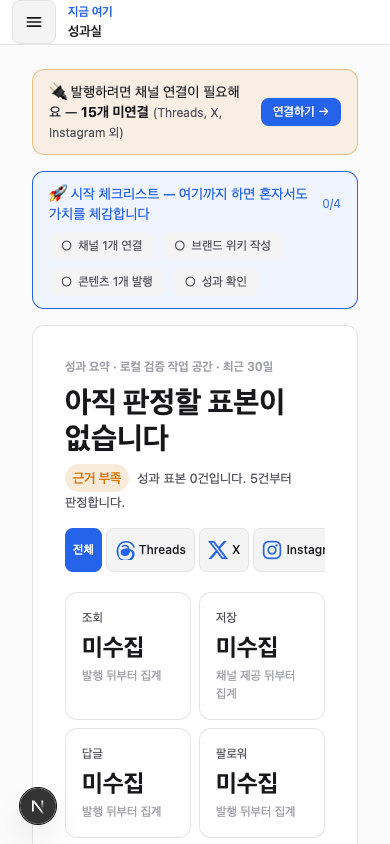
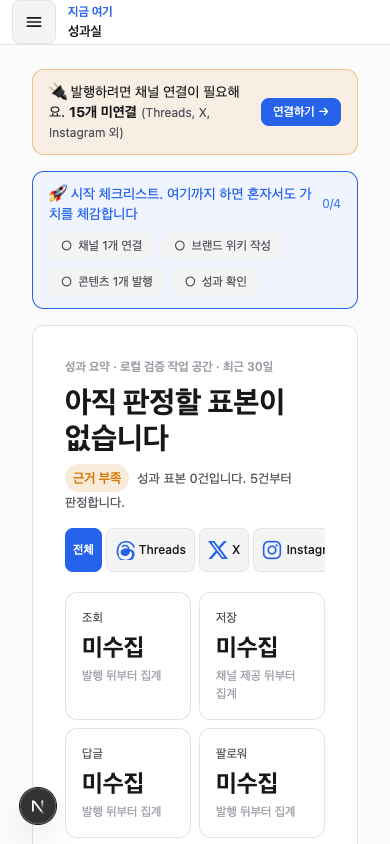
화면: 좁은 화면 셸을 서랍으로 가르고 UI 문구에서 긴 대시를 걷어냄
390 에서 네 방 레일이 화면 전체를 차지해 본문이 밀려났다. 700px 아래에서는
서랍으로 바꾸고 닫힌 상태에도 현재 방 이름과 지금 여기를 남긴다. 768 이상은
기존 레일 그대로다.

UI 문구에서 긴 대시를 23개 파일에서 걷어내고 마침표로 끊었다. 회장 상시 규칙이다.
발행 단추의 영문 표기도 우리말로 바꿨다. 갈래 제목의 이모지를 뺐다.

관찰: 네 화면을 390, 768, 1024, 1440 에서 재고 16개 조합 전부 가로 넘침 없음,
네 방 링크 4개 유지, 콘솔 오류 0. 생성 201, 후보 3장, 미리보기 7개.
전체 시험 149파일 1,206건 통과.

Claude-Session: https://claude.ai/code/session_01T6btu3FRv958LULrrsxSdK

Changed region(s): [[0.4308, 0.2156, 0.8, 0.2464], [0.1846, 0.1232, 0.5538, 0.154], [0.1231, 0.2464, 0.4, 0.2773]]

diff --git a/dashboard/src/app/blog/page.tsx b/dashboard/src/app/blog/page.tsx
@@ -159,12 +159,12 @@ export default function BlogPage() {
           <details className="card p-4 mb-6">
             <summary className="text-sm font-medium text-muted cursor-pointer">SEO 콘텐츠 자동화 플로우</summary>
             <div className="mt-3 text-caption text-subtle space-y-2">
-              <div className="flex items-start gap-2"><span className="text-accent font-bold">1.</span><div><strong className="text-muted">키워드 수집</strong> — Keyword Planner에서 검색량 높은 키워드를 찾아 Blog Keywords에 추가</div></div>
-              <div className="flex items-start gap-2"><span className="text-accent font-bold">2.</span><div><strong className="text-muted">트렌드 확인</strong> — Naver Trends에서 시즌 키워드 파악 (시험, 방학 등)</div></div>
-              <div className="flex items-start gap-2"><span className="text-accent font-bold">3.</span><div><strong className="text-muted">콘텐츠 생산</strong> — AI가 Blog Keywords + Content Guide 기반으로 칼럼 draft 자동 생성</div></div>
-              <div className="flex items-start gap-2"><span className="text-accent font-bold">4.</span><div><strong className="text-muted">검수 + 발행</strong> — Queue에서 draft 확인 → 클릭하여 수정 → Approve → 블로그에 자동 발행</div></div>
-              <div className="flex items-start gap-2"><span className="text-accent font-bold">5.</span><div><strong className="text-muted">검색 노출</strong> — Search Console에서 색인 요청 → 검색 노출</div></div>
-              <div className="flex items-start gap-2"><span className="text-accent font-bold">6.</span><div><strong className="text-muted">결과 분석</strong> — Blog Performance에서 조회수 + 검색 클릭 추적</div></div>
+              <div className="flex items-start gap-2"><span className="text-accent font-bold">1.</span><div><strong className="text-muted">키워드 수집</strong>. Keyword Planner에서 검색량 높은 키워드를 찾아 Blog Keywords에 추가</div></div>
+              <div className="flex items-start gap-2"><span className="text-accent font-bold">2.</span><div><strong className="text-muted">트렌드 확인</strong>. Naver Trends에서 시즌 키워드 파악 (시험, 방학 등)</div></div>
+              <div className="flex items-start gap-2"><span className="text-accent font-bold">3.</span><div><strong className="text-muted">콘텐츠 생산</strong>. AI가 Blog Keywords + Content Guide 기반으로 칼럼 draft 자동 생성</div></div>
+              <div className="flex items-start gap-2"><span className="text-accent font-bold">4.</span><div><strong className="text-muted">검수 + 발행</strong>. Queue에서 draft 확인 → 클릭하여 수정 → Approve → 블로그에 자동 발행</div></div>
+              <div className="flex items-start gap-2"><span className="text-accent font-bold">5.</span><div><strong className="text-muted">검색 노출</strong>. Search Console에서 색인 요청 → 검색 노출</div></div>
+              <div className="flex items-start gap-2"><span className="text-accent font-bold">6.</span><div><strong className="text-muted">결과 분석</strong>. Blog Performance에서 조회수 + 검색 클릭 추적</div></div>
               <p className="text-caption text-subtle mt-2 border-t border-border pt-2">Settings 탭에서 Content Guide와 Keywords를 수정하세요.</p>
             </div>
           </details>
@@ -309,7 +309,7 @@ export default function BlogPage() {
             </div>
             {bank.length > 0 && (
               <div className="mb-3 p-3 rounded bg-accent-soft border border-accent">
-                <p className="text-caption text-accent mb-2">Keyword Bank ({bank.length}개) — 클릭하여 추가</p>
+                <p className="text-caption text-accent mb-2">Keyword Bank ({bank.length}개). 클릭하여 추가</p>
                 <div className="flex flex-wrap gap-1">
                   {bank.map((k) => (
                     <button

diff --git a/dashboard/src/components/channel/SocialConnectButton.tsx b/dashboard/src/components/channel/SocialConnectButton.tsx
@@ -90,7 +90,7 @@ export function SocialConnectButton({ provider, label, onConnected }: { provider
   const publishReady = ([...SCHEDULABLE_PLATFORMS, ...VIDEO_PUBLISH_PLATFORMS] as readonly string[]).includes(provider);
   const accountSwitchHelp = ACCOUNT_SWITCH_HELP[provider];
   const resolvedRef = useRef(false); // postMessage로 이미 결과를 받았는지(closed-폴링 오탐 방지)
-  const watchClosedRef = useRef<number | null>(null); // closed-폴링 interval id — unmount 시 정리
+  const watchClosedRef = useRef<number | null>(null); // closed-폴링 interval id. unmount 시 정리
   const mountedRef = useRef(true); // connect fetch가 pending인 동안 unmount되는 레이스 가드
 
   // 컴포넌트 unmount 시 진행 중인 closed-폴링 interval을 정리한다 — 안 하면 팝업을 열어둔 채
@@ -119,7 +119,7 @@ export function SocialConnectButton({ provider, label, onConnected }: { provider
       resolvedRef.current = true;
       setBusy(false);
       if (data.ok) {
-        setMsg(`${label} 연결 완료 — 채널 상태를 새로고침합니다.`);
+        setMsg(`${label} 연결 완료. 채널 상태를 새로고침합니다.`);
         onConnected?.();
       } else {
         setMsg(oauthErrorMessage(data.message || "연결 실패", label));
@@ -233,7 +233,7 @@ export function SocialConnectButton({ provider, label, onConnected }: { provider
         watchClosedRef.current = watchClosed;
         return; // busy는 postMessage/closed 감지가 최종 해제
       } else {
-        popup.close(); // authUrl 없음 — 예약해둔 빈 창을 남겨두지 않는다.
+        popup.close(); // authUrl 없음. 예약해둔 빈 창을 남겨두지 않는다.
         setMsg(oauthErrorMessage(d.error || "OAuth 앱 자격증명이 아직 설정되지 않았습니다.", label));
         setBusy(false);
       }
@@ -248,7 +248,7 @@ export function SocialConnectButton({ provider, label, onConnected }: { provider
   return (
     <div className="rounded-lg border border-accent/40 bg-accent/10 p-3">
       <p className="text-xs text-muted mb-2">
-        <b className="text-text">{label} OAuth 연결</b> — 버튼 한 번이면 끝. 비밀번호·토큰 입력 없이
+        <b className="text-text">{label} OAuth 연결</b>. 버튼 한 번이면 끝. 비밀번호·토큰 입력 없이
         {label} 공식 로그인으로 안전하게 연결됩니다.
       </p>
       {!readinessLoading && readinessStatus && (
@@ -338,7 +338,7 @@ export function SocialConnectButton({ provider, label, onConnected }: { provider
       )}
       {!publishReady && (
         <p className="text-caption text-warning mt-2" data-testid="publish-not-ready-badge">
-          ⚠ 발행 준비 중 — 지금은 {label} 연결만 미리 가능하고, 대시보드에서 직접 발행은 아직
+          ⚠ 발행 준비 중. 지금은 {label} 연결만 미리 가능하고, 대시보드에서 직접 발행은 아직
           지원하지 않습니다.
         </p>
       )}

diff --git a/dashboard/src/components/shared/OnboardingWizard.tsx b/dashboard/src/components/shared/OnboardingWizard.tsx
@@ -113,9 +113,9 @@ export function OnboardingWizard({ onComplete, onDismiss }: OnboardingWizardProp
     }
     // 검증 실패(네트워크 아님)면 진행 막기 — 잘못된 키로 온보딩 통과 방지.
     if (!d.verified && !d.unverified) {
-      throw new Error(d.error || "검증 실패 — 키를 확인하세요");
+      throw new Error(d.error || "검증 실패. 키를 확인하세요");
     }
-    setConnectedAccount(d.account || (d.unverified ? `저장됨 · 미검증${d.reason ? " — " + d.reason : ""}` : null));
+    setConnectedAccount(d.account || (d.unverified ? `저장됨 · 미검증${d.reason ? ". " + d.reason : ""}` : null));
     setCredentialsSaved(true);
   };
 
@@ -144,7 +144,7 @@ export function OnboardingWizard({ onComplete, onDismiss }: OnboardingWizardProp
             {step === 1 && "업종을 선택하면 맞춤 콘텐츠 가이드가 자동 설정됩니다"}
             {step === 2 && "콘텐츠를 발행할 채널을 선택하세요"}
             {step === 3 && "첫 번째 채널을 연결하세요"}
-            {step === 4 && "이제 콘텐츠를 만들 차례예요 — 바로 시작할 수 있어요"}
+            {step === 4 && "이제 콘텐츠를 만들 차례예요. 바로 시작할 수 있어요"}
           </p>
         </div>
 
@@ -251,7 +251,7 @@ export function OnboardingWizard({ onComplete, onDismiss }: OnboardingWizardProp
                       <path strokeLinecap="round" strokeLinejoin="round" d="M5 13l4 4L19 7" />
                     </svg>
                   </div>
-                  <p className="text-sm text-success font-medium">채널이 연결되었습니다{connectedAccount ? ` — ${connectedAccount}` : ""}</p>
+                  <p className="text-sm text-success font-medium">채널이 연결되었습니다{connectedAccount ? `. ${connectedAccount}` : ""}</p>
                   <p className="text-xs text-subtle mt-1">다음을 눌러 콘텐츠 만들 준비로 넘어가세요</p>
                 </div>
               )}
@@ -272,7 +272,7 @@ export function OnboardingWizard({ onComplete, onDismiss }: OnboardingWizardProp
                   <span className="text-xl">🎨</span>
                   <div>
                     <p className="text-sm font-medium text-text">브랜드 설정하기</p>
-                    <p className="text-caption text-subtle">6가지만 답하면 끝 — 또는 내 위키/홈페이지 연결</p>
+                    <p className="text-caption text-subtle">6가지만 답하면 끝나요. 내 위키나 홈페이지를 연결해도 됩니다</p>
                   </div>
                 </a>
                 <a href="/studio" onClick={clearDraft}

diff --git a/dashboard/tests/publish/studio-publish-ui.test.tsx b/dashboard/tests/publish/studio-publish-ui.test.tsx
@@ -153,7 +153,7 @@ describe("Studio publish result integrity", () => {
     });
 
     render(<StudioPage />);
-    fireEvent.click(await screen.findByRole("button", { name: "Publish (2)" }));
+    fireEvent.click(await screen.findByRole("button", { name: "2곳에 올리기" }));
 
     await waitFor(() => expect(mocks.apiPost).toHaveBeenCalledTimes(4));
     expect(screen.getByText("0%")).toBeInTheDocument();
@@ -175,7 +175,7 @@ describe("Studio publish result integrity", () => {
     });
 
     render(<StudioPage />);
-    fireEvent.click(await screen.findByRole("button", { name: "Publish (2)" }));
+    fireEvent.click(await screen.findByRole("button", { name: "2곳에 올리기" }));
 
     await waitFor(() => expect(mocks.apiPost).toHaveBeenCalledTimes(4));
     expect(screen.getByText("50%")).toBeInTheDocument();
@@ -201,7 +201,7 @@ describe("Studio publish result integrity", () => {
     });
 
     render(<StudioPage />);
-    const publishButton = await screen.findByRole("button", { name: "Publish (3)" });
+    const publishButton = await screen.findByRole("button", { name: "3곳에 올리기" });
     for (const [platform, label] of [["shorts", "Shorts"], ["reels", "Reels"], ["tiktok", "TikTok"]]) {
       expect(within(screen.getByTestId(`preview-${platform}`)).getByRole(
         "checkbox",
@@ -259,7 +259,7 @@ describe("Studio publish result integrity", () => {
     });
 
     render(<StudioPage />);
-    fireEvent.click(await screen.findByRole("button", { name: "Publish (1)" }));
+    fireEvent.click(await screen.findByRole("button", { name: "1곳에 올리기" }));
 
     const link = await screen.findByTitle("게시물 보기");
     expect(link).toHaveAttribute("href", "https://www.threads.net/@example/post/ok");
@@ -277,7 +277,7 @@ describe("Studio publish result integrity", () => {
 
     render(<StudioPage />);
     fireEvent.change(await screen.findByLabelText("threads 첫 댓글"), { target: { value: "첫 댓글 본문" } });
-    fireEvent.click(screen.getByRole("button", { name: "Publish (1)" }));
+    fireEvent.click(screen.getByRole("button", { name: "1곳에 올리기" }));
 
     await waitFor(() => expect(mocks.apiPost.mock.calls.some(([path, body]) => path === "/api/publish" && (body as { first_comment?: string }).first_comment === "첫 댓글 본문")).toBe(true));
   });

diff --git a/dashboard/src/components/channel/ChannelPage.tsx b/dashboard/src/components/channel/ChannelPage.tsx
@@ -119,11 +119,11 @@ export function ChannelPage({ channel, variant = "text" }: ChannelPageProps) {
   const handleCredSave = async (newKeys: Record<string, string>) => {
     const r = await apiPost<{ verified?: boolean; unverified?: boolean; reason?: string; error?: string; account?: string }>(`/api/channel-config/${channel}`, newKeys);
     if (r?.verified) {
-      showToast(`${label} 연결 완료${r.account ? " — " + r.account : ""}`, "success");
+      showToast(`${label} 연결 완료${r.account ? ". " + r.account : ""}`, "success");
       mutateConfig();
     } else if (r?.unverified) {
       // 네트워크 등으로 확인 불가 — 키는 저장됐으나 검증 미완(자동화는 비활성 유지가 안전).
-      showToast(`${label} 저장됨 · 미검증${r.reason ? " — " + r.reason : ""}`, "warning");
+      showToast(`${label} 저장됨 · 미검증${r.reason ? ". " + r.reason : ""}`, "warning");
       mutateConfig();
     } else {
       showToast(`연결 실패: ${r?.error || "Invalid credentials"}`, "error");
@@ -263,7 +263,7 @@ export function ChannelPage({ channel, variant = "text" }: ChannelPageProps) {
             )}
             {oauthLabel && !showManualCreds && reconnectRequired && (
               <div className="mt-stack rounded-lg border border-warning/40 bg-warning/10 p-stack text-caption text-warning">
-                ⚠ 재연결 필요 — 저장된 토큰이 만료되었거나 무효합니다({label} 측 거부). 위 OAuth 버튼으로 다시 연결해주세요.
+                ⚠ 재연결 필요. 저장된 토큰이 만료되었거나 무효합니다({label} 측 거부). 위 OAuth 버튼으로 다시 연결해주세요.
               </div>
             )}
           </div>

diff --git a/dashboard/src/app/studio/page.tsx b/dashboard/src/app/studio/page.tsx
@@ -69,9 +69,9 @@ type PubStatus = "wait" | "doing" | "done" | "failed";
 type PublishReconciliation = ExternalPublishPersistenceFailure["persistence"]["reconciliation"];
 
 const GROUPS: { title: string; platforms: PreviewPlatform[] }[] = [
-  { title: "✍ 텍스트", platforms: ["threads", "x", "facebook"] },
-  { title: "🎬 영상 9:16", platforms: ["shorts", "reels", "tiktok"] },
-  { title: "🖼 카드뉴스", platforms: ["instagram"] },
+  { title: "텍스트", platforms: ["threads", "x", "facebook"] },
+  { title: "세로 영상", platforms: ["shorts", "reels", "tiktok"] },
+  { title: "카드뉴스", platforms: ["instagram"] },
 ];
 const ALL: PreviewPlatform[] = PREVIEW_PLATFORMS.map((platform) => platform.key);
 const DEFAULT_PUBLISH_TARGETS = new Set<PreviewPlatform>(["threads", "x", "instagram"]);
@@ -652,7 +652,7 @@ export default function StudioPage() {
               <b className="mr-auto min-w-0 truncate text-body text-text">{idea || "현재 작업물"}</b>
               <Button onClick={() => save("draft")}>초안으로 저장</Button>
               <Button onClick={requestReview} disabled={reviewBusy}>{reviewBusy ? "요청 중" : "검토 요청"}</Button>
-              <Button variant="primary" onClick={publish} disabled={pub.running}>Publish ({selectedPublishTargets(includes).length})</Button>
+              <Button variant="primary" onClick={publish} disabled={pub.running}>{selectedPublishTargets(includes).length}곳에 올리기</Button>
               {activeWorkspace ? <Button variant={showSchedule ? "primary" : "secondary"} onClick={() => setShowSchedule((value) => !value)}>날짜 잡기</Button> : null}
             </div>
           ) : null}

diff --git a/dashboard/src/components/studio/ChannelConnect.tsx b/dashboard/src/components/studio/ChannelConnect.tsx
@@ -130,16 +130,16 @@ export function ChannelConnect({ workspace, onClose }: { workspace: Workspace; o
                 </>
               )}
               {OAUTH_LABELS[platform] && !showManualCreds && chCfg.connected && (
-                <p className="mt-3 text-xs text-green-400">✓ OAuth 연결됨 — access token 원문은 화면에 표시하지 않습니다.</p>
+                <p className="mt-3 text-xs text-green-400">✓ OAuth 연결됨. access token 원문은 화면에 표시하지 않습니다.</p>
               )}
               {result && (
                 <div className="mt-3 text-xs">
                   {result.verified ? (
-                    <p className="text-green-400">✓ 연결 완료{result.account ? ` — ${result.account}` : ""}</p>
+                    <p className="text-green-400">✓ 연결 완료{result.account ? `. ${result.account}` : ""}</p>
                   ) : result.unverified ? (
-                    <p className="text-amber-400">⚠ 저장됨 · 미검증{result.reason ? ` — ${result.reason}` : ""} (네트워크 복구 후 “연결 테스트”로 재확인)</p>
+                    <p className="text-amber-400">⚠ 저장됨 · 미검증{result.reason ? `. ${result.reason}` : ""} (네트워크 복구 후 “연결 테스트”로 재확인)</p>
                   ) : (
-                    <p className="text-red-400">✗ 검증 실패{result.error ? `: ${result.error}` : " — 키를 확인하세요"}</p>
+                    <p className="text-red-400">✗ 검증 실패{result.error ? `: ${result.error}` : ". 키를 확인하세요"}</p>
                   )}
                 </div>
               )}

diff --git a/dashboard/src/components/channel/InstagramPage.tsx b/dashboard/src/components/channel/InstagramPage.tsx
@@ -121,7 +121,7 @@ function CardNewsEditor({ onReload, editingPostId, onBackToQueue }: { onReload: 
     setEd(prev => ({ ...prev, slides: updated }));
   };
   const removeResultSlide = (idx: number) => {
-    if (mjGenerating) { showToast("미드저니 생성 중 — 완료 후 삭제하세요", "warning"); return; }
+    if (mjGenerating) { showToast("미드저니 생성 중. 완료 후 삭제하세요", "warning"); return; }
     if (!ed.result) return;
     const newSlides = [...ed.result.slides];
     newSlides.splice(idx, 1);
@@ -353,7 +353,7 @@ function InstagramSettings() {
   const handleCredSave = async (newKeys: Record<string, string>) => {
     const r = await apiPost<{ verified?: boolean; error?: string; account?: string }>("/api/channel-config/instagram", newKeys);
     if (r?.verified) {
-      showToast(`Instagram 연결 완료${r.account ? " — " + r.account : ""}`, "success");
+      showToast(`Instagram 연결 완료${r.account ? ". " + r.account : ""}`, "success");
       mutateConfig();
     } else {
       showToast(`연결 실패: ${r?.error || "Invalid credentials"}`, "error");
@@ -395,7 +395,7 @@ function InstagramSettings() {
         />
         {reconnectRequired && (
           <div className="mt-3 rounded-lg border border-warning/40 bg-warning/10 p-3 text-xs text-warning">
-            ⚠ 재연결 필요 — 저장된 Instagram 토큰이 만료되었거나 무효합니다. 위 OAuth 버튼으로 다시 연결해주세요.
+            ⚠ 재연결 필요. 저장된 Instagram 토큰이 만료되었거나 무효합니다. 위 OAuth 버튼으로 다시 연결해주세요.
           </div>
         )}
       </div>

diff --git a/dashboard/src/components/settings/AiKeySettings.tsx b/dashboard/src/components/settings/AiKeySettings.tsx
@@ -27,7 +27,7 @@ export function AiKeySettings() {
       const r = await apiPost<{ ok?: boolean; error?: string }>("/api/integrations", {
         tenant_id: activeWorkspace.id, kind: "anthropic", label: "claude", secret: key.trim(),
       });
-      if (r?.ok) { setKey(""); setMsg("✓ Claude 키 저장됨 — 이제 생성이 이 키로 동작합니다."); await mutate(); }
+      if (r?.ok) { setKey(""); setMsg("✓ Claude 키 저장됨. 이제 생성이 이 키로 동작합니다."); await mutate(); }
       else setMsg(r?.error || "저장 실패");
     } finally { setBusy(false); }
   };
@@ -41,7 +41,7 @@ export function AiKeySettings() {
       <p className="text-xs text-subtle mb-3">
         내 Anthropic API 키를 등록하면 콘텐츠 생성이 <b className="text-muted">내 키·내 과금</b>으로 동작합니다(미등록 시 공유 엔진).
         키는 암호화 저장되며 발급은 <span className="text-accent">console.anthropic.com → API Keys</span>.
-        현재: <span className={hasKey ? "text-success" : "text-subtle"}>{hasKey ? "등록됨(내 과금)" : "미등록(무료 이벤트 — 운영자 부담)"}</span>
+        현재: <span className={hasKey ? "text-success" : "text-subtle"}>{hasKey ? "등록됨(내 과금)" : "미등록(무료 이벤트. 운영자 부담)"}</span>
       </p>
       <div className="flex gap-2">
         <input type="password" value={key} onChange={(e) => setKey(e.target.value)} placeholder="sk-ant-..."

diff --git a/dashboard/src/app/services/page.tsx b/dashboard/src/app/services/page.tsx
@@ -69,7 +69,7 @@ export default function ServicesPage() {
         <h1 className="text-xl text-muted mb-4">전체 서비스</h1>
         <p className="text-red-400 mb-2">tenants 로드 실패: {error}</p>
         <p className="text-sm">
-          fork-only data 파일이 박혀있는지 확인 — <code className="text-amber-400">data/tenants.json</code>
+          fork-only data 파일이 박혀있는지 확인. <code className="text-amber-400">data/tenants.json</code>
         </p>
       </div>
     );
@@ -289,7 +289,7 @@ docker-compose -f docker-compose.postagi-4tenants.yml up -d openclaw-gateway-${s
         {cmd && (
           <pre className="mt-4 p-3 bg-black border border-border rounded text-xs text-emerald-400 whitespace-pre-wrap break-all">
             {cmd}
-            {"\n\n"}✓ 클립보드 복사됨 — 터미널에 붙여넣기
+            {"\n\n"}✓ 클립보드 복사됨. 터미널에 붙여넣기
           </pre>
         )}
       </div>

diff --git a/dashboard/src/app/layout.tsx b/dashboard/src/app/layout.tsx
@@ -25,9 +25,9 @@ export default function RootLayout({ children }: { children: React.ReactNode }) 
           }}
         />
         {/* 청크 로드 실패 자동복구: Cloudflare 터널이 간헐 520으로 /_next 청크를 떨구면
-            하이드레이션이 통째로 실패해 모든 버튼이 죽는다(2026-07-02 라이브 QA 실측 —
+            하이드레이션이 통째로 실패해 모든 버튼이 죽는다(2026-07-02 라이브 QA 실측
             "구글 로그인 안 먹음"의 앱측 원인). 스크립트 리소스 에러를 캡처 단계에서 잡아
-            15초 가드로 1회 자동 새로고침 — 지속 장애면 루프 안 돌고 멈춤. */}
+            15초 가드로 1회 자동 새로고침. 지속 장애면 루프 안 돌고 멈춤. */}
         <script
           dangerouslySetInnerHTML={{
             __html:

diff --git a/dashboard/src/components/channel/ContentGuide.tsx b/dashboard/src/components/channel/ContentGuide.tsx
@@ -63,7 +63,7 @@ export function ContentGuide({ channel }: ContentGuideProps) {
     if (suggestion) {
       setText(suggestion);
       setSuggestion(null);
-      showToast("제안 적용됨 — Save를 눌러 저장하세요", "info");
+      showToast("제안 적용됨. Save를 눌러 저장하세요", "info");
     }
   };
 
@@ -90,7 +90,7 @@ export function ContentGuide({ channel }: ContentGuideProps) {
         </div>
       </div>
       <p className="text-caption text-subtle mb-2">
-        {isChannelGuide ? `${label} 전용 가이드` : "공통 가이드 사용 중 — 수정하면 채널 전용으로 저장"}
+        {isChannelGuide ? `${label} 전용 가이드` : "공통 가이드 사용 중. 수정하면 채널 전용으로 저장"}
         {channel === "x" ? " (280자 제한 고려)" : ""}
       </p>
       <textarea
